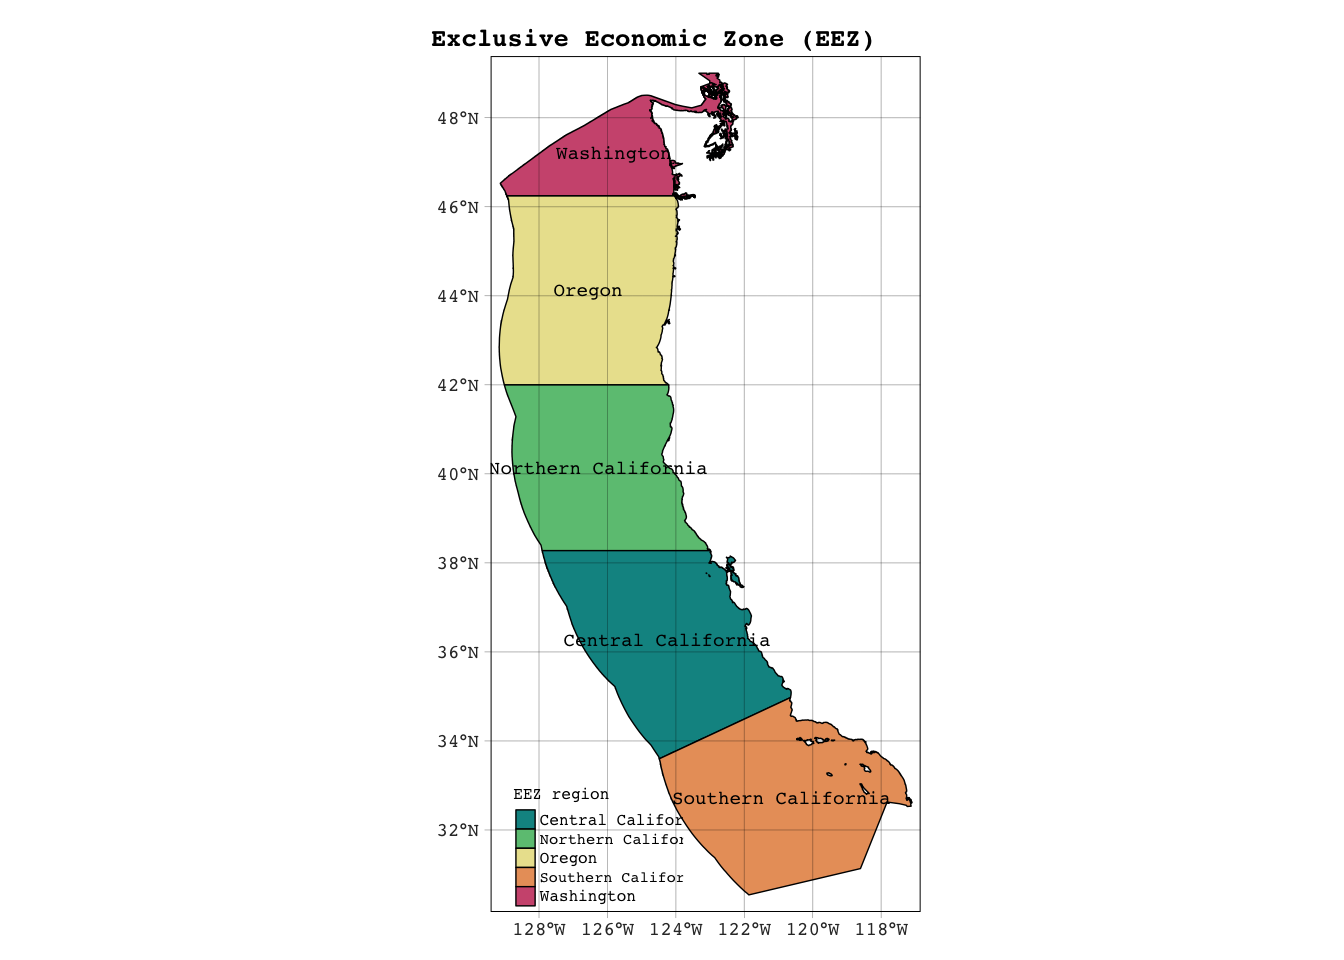
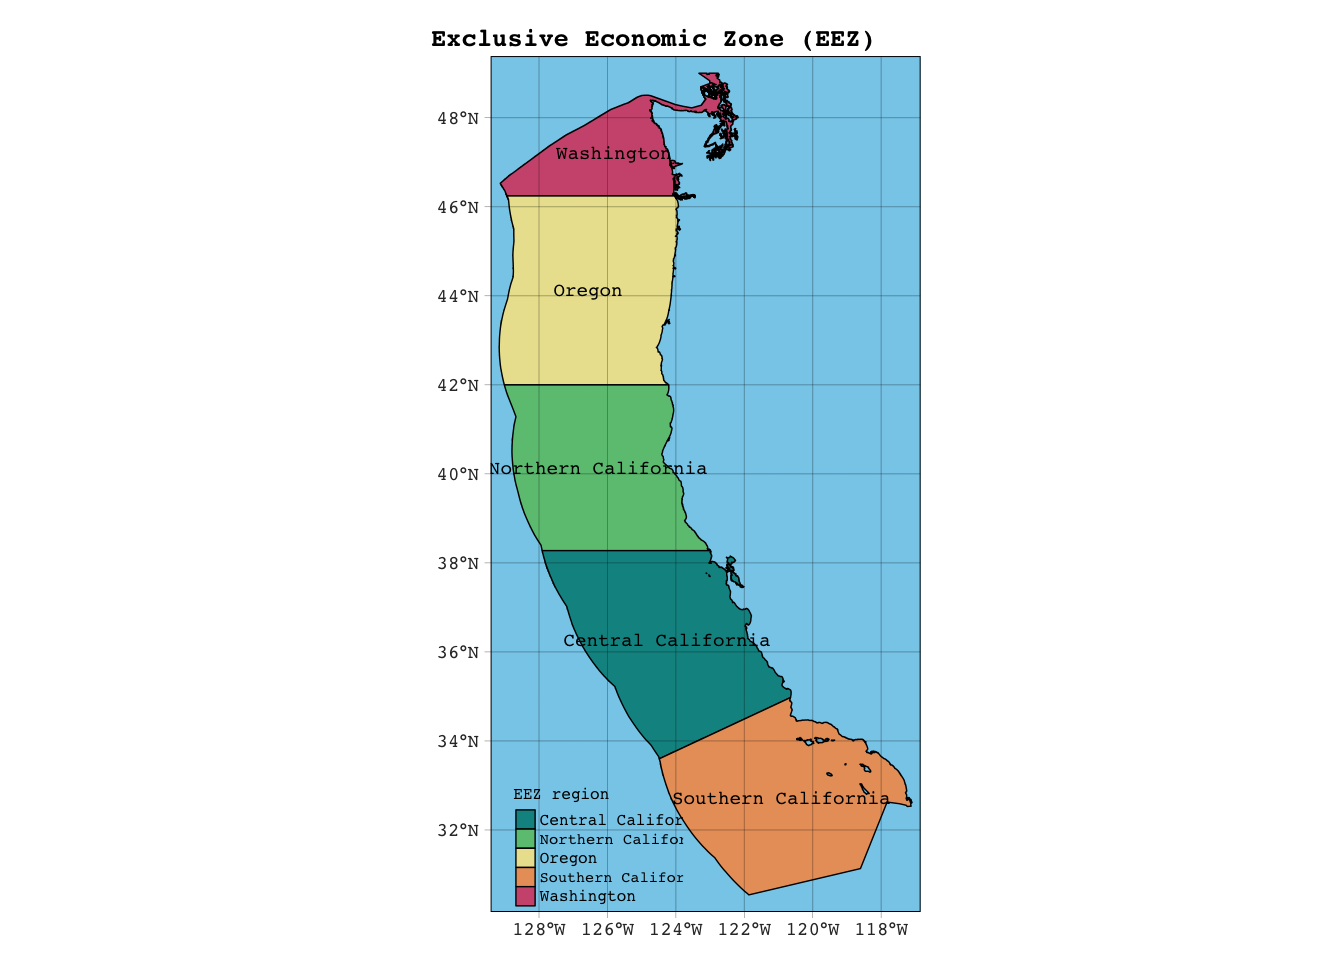
testing function

Changed region(s): [[0.3438, 0.0625, 0.6875, 0.9688]]

diff --git a/HW4.html b/HW4.html
@@ -76,8 +76,14 @@ pre > code.sourceCode > span > a:first-child::before { text-decoration: underlin
 <body>
 
 <div id="quarto-content" class="page-columns page-rows-contents page-layout-article">
-<div id="quarto-margin-sidebar" class="sidebar margin-sidebar zindex-bottom">
-  
+<div id="quarto-margin-sidebar" class="sidebar margin-sidebar">
+  <nav id="TOC" role="doc-toc" class="toc-active">
+    <h2 id="toc-title">Table of contents</h2>
+   
+  <ul>
+  <li><a href="#function" id="toc-function" class="nav-link active" data-scroll-target="#function">Function</a></li>
+  </ul>
+</nav>
 </div>
 <main class="content" id="quarto-document-content">
 
@@ -386,12 +392,13 @@ pre > code.sourceCode > span > a:first-child::before { text-decoration: underlin
 <span id="cb22-14"><a href="#cb22-14" aria-hidden="true" tabindex="-1"></a>            <span class="at">main.title.fontface =</span> <span class="st">"bold"</span>,</span>
 <span id="cb22-15"><a href="#cb22-15" aria-hidden="true" tabindex="-1"></a>            <span class="at">legend.text.size =</span> <span class="fl">0.5</span>,</span>
 <span id="cb22-16"><a href="#cb22-16" aria-hidden="true" tabindex="-1"></a>            <span class="at">legend.title.size =</span> <span class="fl">0.6</span>,</span>
-<span id="cb22-17"><a href="#cb22-17" aria-hidden="true" tabindex="-1"></a>            <span class="at">legend.position =</span> <span class="fu">c</span>(<span class="st">"left"</span>,<span class="st">"BOTTOM"</span>)) <span class="sc">+</span></span>
-<span id="cb22-18"><a href="#cb22-18" aria-hidden="true" tabindex="-1"></a>  <span class="fu">tm_graticules</span>(<span class="at">col =</span> <span class="st">"black"</span>,</span>
-<span id="cb22-19"><a href="#cb22-19" aria-hidden="true" tabindex="-1"></a>                <span class="at">lwd =</span> <span class="fl">0.3</span>,</span>
-<span id="cb22-20"><a href="#cb22-20" aria-hidden="true" tabindex="-1"></a>                <span class="at">alpha =</span> <span class="fl">0.5</span>) </span>
-<span id="cb22-21"><a href="#cb22-21" aria-hidden="true" tabindex="-1"></a>  </span>
-<span id="cb22-22"><a href="#cb22-22" aria-hidden="true" tabindex="-1"></a>eez_map</span></code><button title="Copy to Clipboard" class="code-copy-button"><i class="bi"></i></button></pre></div>
+<span id="cb22-17"><a href="#cb22-17" aria-hidden="true" tabindex="-1"></a>            <span class="at">legend.position =</span> <span class="fu">c</span>(<span class="st">"left"</span>,<span class="st">"BOTTOM"</span>),</span>
+<span id="cb22-18"><a href="#cb22-18" aria-hidden="true" tabindex="-1"></a>            <span class="at">bg.color =</span> <span class="st">"skyblue"</span>) <span class="sc">+</span></span>
+<span id="cb22-19"><a href="#cb22-19" aria-hidden="true" tabindex="-1"></a>  <span class="fu">tm_graticules</span>(<span class="at">col =</span> <span class="st">"black"</span>,</span>
+<span id="cb22-20"><a href="#cb22-20" aria-hidden="true" tabindex="-1"></a>                <span class="at">lwd =</span> <span class="fl">0.3</span>,</span>
+<span id="cb22-21"><a href="#cb22-21" aria-hidden="true" tabindex="-1"></a>                <span class="at">alpha =</span> <span class="fl">0.5</span>) </span>
+<span id="cb22-22"><a href="#cb22-22" aria-hidden="true" tabindex="-1"></a>  </span>
+<span id="cb22-23"><a href="#cb22-23" aria-hidden="true" tabindex="-1"></a>eez_map</span></code><button title="Copy to Clipboard" class="code-copy-button"><i class="bi"></i></button></pre></div>
 <div class="cell-output-display">
 <div>
 <figure class="figure">
@@ -448,11 +455,11 @@ pre > code.sourceCode > span > a:first-child::before { text-decoration: underlin
 <span id="cb27-24"><a href="#cb27-24" aria-hidden="true" tabindex="-1"></a>  <span class="fu">tm_shape</span>(suitable_eez) <span class="sc">+</span></span>
 <span id="cb27-25"><a href="#cb27-25" aria-hidden="true" tabindex="-1"></a>  <span class="fu">tm_raster</span>(<span class="at">palette =</span> <span class="fu">rev</span>(<span class="fu">hcl.colors</span>(<span class="dv">5</span>, <span class="st">"BuGn"</span>)),</span>
 <span id="cb27-26"><a href="#cb27-26" aria-hidden="true" tabindex="-1"></a>            <span class="at">style =</span> <span class="st">"cat"</span>,</span>
-<span id="cb27-27"><a href="#cb27-27" aria-hidden="true" tabindex="-1"></a>            <span class="at">title =</span> <span class="st">"Total suitable area (km) / EEZ region"</span>,</span>
+<span id="cb27-27"><a href="#cb27-27" aria-hidden="true" tabindex="-1"></a>            <span class="at">title =</span> <span class="fu">expression</span>(<span class="st">"Zone priority / total suitable area (km^2*)"</span>),</span>
 <span id="cb27-28"><a href="#cb27-28" aria-hidden="true" tabindex="-1"></a>            <span class="at">labels =</span> <span class="fu">c</span>(<span class="st">"Lowest, 438"</span>,</span>
-<span id="cb27-29"><a href="#cb27-29" aria-hidden="true" tabindex="-1"></a>                       <span class="st">"Low, 1,533"</span>,</span>
-<span id="cb27-30"><a href="#cb27-30" aria-hidden="true" tabindex="-1"></a>                       <span class="st">"Mid, 3,225"</span>,</span>
-<span id="cb27-31"><a href="#cb27-31" aria-hidden="true" tabindex="-1"></a>                       <span class="st">"High, 4,097"</span>,</span>
+<span id="cb27-29"><a href="#cb27-29" aria-hidden="true" tabindex="-1"></a>                       <span class="st">"1,533"</span>,</span>
+<span id="cb27-30"><a href="#cb27-30" aria-hidden="true" tabindex="-1"></a>                       <span class="st">"3,225"</span>,</span>
+<span id="cb27-31"><a href="#cb27-31" aria-hidden="true" tabindex="-1"></a>                       <span class="st">"4,097"</span>,</span>
 <span id="cb27-32"><a href="#cb27-32" aria-hidden="true" tabindex="-1"></a>                       <span class="st">"Highest, 4,923"</span>),</span>
 <span id="cb27-33"><a href="#cb27-33" aria-hidden="true" tabindex="-1"></a>            <span class="at">legend.is.portrait =</span> <span class="cn">FALSE</span>) <span class="sc">+</span></span>
 <span id="cb27-34"><a href="#cb27-34" aria-hidden="true" tabindex="-1"></a>  <span class="fu">tm_shape</span>(eez) <span class="sc">+</span> </span>
@@ -478,19 +485,80 @@ pre > code.sourceCode > span > a:first-child::before { text-decoration: underlin
 <span id="cb27-54"><a href="#cb27-54" aria-hidden="true" tabindex="-1"></a>                <span class="at">lwd =</span> <span class="fl">0.3</span>,</span>
 <span id="cb27-55"><a href="#cb27-55" aria-hidden="true" tabindex="-1"></a>                <span class="at">alpha =</span> <span class="fl">0.5</span>) </span>
 <span id="cb27-56"><a href="#cb27-56" aria-hidden="true" tabindex="-1"></a></span>
-<span id="cb27-57"><a href="#cb27-57" aria-hidden="true" tabindex="-1"></a>species_map <span class="ot">&lt;-</span> <span class="fu">tmap_save</span>(species_map, <span class="st">"species_map.html"</span>, <span class="at">width =</span> <span class="dv">1200</span>, <span class="at">height =</span> <span class="dv">800</span>)</span></code><button title="Copy to Clipboard" class="code-copy-button"><i class="bi"></i></button></pre></div>
+<span id="cb27-57"><a href="#cb27-57" aria-hidden="true" tabindex="-1"></a>species_map </span></code><button title="Copy to Clipboard" class="code-copy-button"><i class="bi"></i></button></pre></div>
+<div class="cell-output-display">
+<div>
+<figure class="figure">
+<p><img src="HW4_files/figure-html/unnamed-chunk-15-1.png" class="img-fluid figure-img" width="192"></p>
+</figure>
 </div>
+</div>
+</div>
+</section>
+<section id="function" class="level2">
+<h2 class="anchored" data-anchor-id="function">Function</h2>
 <div class="cell">
-<div class="sourceCode cell-code" id="cb28"><pre class="sourceCode r code-with-copy"><code class="sourceCode r"><span id="cb28-1"><a href="#cb28-1" aria-hidden="true" tabindex="-1"></a><span class="co"># suitable_locations set to NAs</span></span>
-<span id="cb28-2"><a href="#cb28-2" aria-hidden="true" tabindex="-1"></a><span class="co"># then mask suitable cells, using eez as vector </span></span>
-<span id="cb28-3"><a href="#cb28-3" aria-hidden="true" tabindex="-1"></a><span class="co"># cell area of suitable locations </span></span>
-<span id="cb28-4"><a href="#cb28-4" aria-hidden="true" tabindex="-1"></a><span class="co"># eez_rast &lt;- rasterize(eez), can use suitable locations rast as template</span></span>
-<span id="cb28-5"><a href="#cb28-5" aria-hidden="true" tabindex="-1"></a><span class="co"># need template raster with matching res, crs </span></span>
-<span id="cb28-6"><a href="#cb28-6" aria-hidden="true" tabindex="-1"></a><span class="co"># zonal function terra</span></span>
-<span id="cb28-7"><a href="#cb28-7" aria-hidden="true" tabindex="-1"></a><span class="co">#  </span></span>
-<span id="cb28-8"><a href="#cb28-8" aria-hidden="true" tabindex="-1"></a><span class="co"># field argument rasterize()</span></span>
-<span id="cb28-9"><a href="#cb28-9" aria-hidden="true" tabindex="-1"></a><span class="co"># </span></span>
-<span id="cb28-10"><a href="#cb28-10" aria-hidden="true" tabindex="-1"></a><span class="co"># any species, megaladon </span></span></code><button title="Copy to Clipboard" class="code-copy-button"><i class="bi"></i></button></pre></div>
+<div class="sourceCode cell-code" id="cb28"><pre class="sourceCode r code-with-copy"><code class="sourceCode r"><span id="cb28-1"><a href="#cb28-1" aria-hidden="true" tabindex="-1"></a>generate_species_map <span class="ot">&lt;-</span> <span class="cf">function</span>(min_sst, max_sst, min_depth, max_depth, species_name) {</span>
+<span id="cb28-2"><a href="#cb28-2" aria-hidden="true" tabindex="-1"></a>  </span>
+<span id="cb28-3"><a href="#cb28-3" aria-hidden="true" tabindex="-1"></a>  <span class="co"># Reclassify mean SST</span></span>
+<span id="cb28-4"><a href="#cb28-4" aria-hidden="true" tabindex="-1"></a>  rcl_sst <span class="ot">&lt;-</span> <span class="fu">matrix</span>(<span class="fu">c</span>(<span class="sc">-</span><span class="cn">Inf</span>, min_sst, <span class="cn">NA</span>,</span>
+<span id="cb28-5"><a href="#cb28-5" aria-hidden="true" tabindex="-1"></a>                      min_sst, max_sst, <span class="dv">1</span>,</span>
+<span id="cb28-6"><a href="#cb28-6" aria-hidden="true" tabindex="-1"></a>                      max_sst, <span class="cn">Inf</span>, <span class="cn">NA</span>),</span>
+<span id="cb28-7"><a href="#cb28-7" aria-hidden="true" tabindex="-1"></a>                    <span class="at">ncol =</span> <span class="dv">3</span>, <span class="at">byrow =</span> <span class="cn">TRUE</span>)</span>
+<span id="cb28-8"><a href="#cb28-8" aria-hidden="true" tabindex="-1"></a>  </span>
+<span id="cb28-9"><a href="#cb28-9" aria-hidden="true" tabindex="-1"></a>  reclassified_sst <span class="ot">&lt;-</span> <span class="fu">classify</span>(<span class="fu">rast</span>(mean_sst), <span class="at">rcl =</span> rcl_sst)</span>
+<span id="cb28-10"><a href="#cb28-10" aria-hidden="true" tabindex="-1"></a>  </span>
+<span id="cb28-11"><a href="#cb28-11" aria-hidden="true" tabindex="-1"></a>  <span class="co"># Reclassify depth</span></span>
+<span id="cb28-12"><a href="#cb28-12" aria-hidden="true" tabindex="-1"></a>  rcl_depth <span class="ot">&lt;-</span> <span class="fu">matrix</span>(<span class="fu">c</span>(<span class="sc">-</span><span class="cn">Inf</span>, min_depth, <span class="cn">NA</span>,</span>
+<span id="cb28-13"><a href="#cb28-13" aria-hidden="true" tabindex="-1"></a>                        min_depth, max_depth, <span class="dv">1</span>,</span>
+<span id="cb28-14"><a href="#cb28-14" aria-hidden="true" tabindex="-1"></a>                        max_depth, <span class="cn">Inf</span>, <span class="cn">NA</span>),</span>
+<span id="cb28-15"><a href="#cb28-15" aria-hidden="true" tabindex="-1"></a>                      <span class="at">ncol =</span> <span class="dv">3</span>, <span class="at">byrow =</span> <span class="cn">TRUE</span>)</span>
+<span id="cb28-16"><a href="#cb28-16" aria-hidden="true" tabindex="-1"></a>  </span>
+<span id="cb28-17"><a href="#cb28-17" aria-hidden="true" tabindex="-1"></a>  reclassified_depth <span class="ot">&lt;-</span> <span class="fu">classify</span>(<span class="fu">rast</span>(depth_resampled), <span class="at">rcl =</span> rcl_depth)</span>
+<span id="cb28-18"><a href="#cb28-18" aria-hidden="true" tabindex="-1"></a>  </span>
+<span id="cb28-19"><a href="#cb28-19" aria-hidden="true" tabindex="-1"></a>  <span class="co"># Suitable locations (SST * Depth)</span></span>
+<span id="cb28-20"><a href="#cb28-20" aria-hidden="true" tabindex="-1"></a>  suitable_locations <span class="ot">&lt;-</span> reclassified_sst <span class="sc">*</span> reclassified_depth</span>
+<span id="cb28-21"><a href="#cb28-21" aria-hidden="true" tabindex="-1"></a>  </span>
+<span id="cb28-22"><a href="#cb28-22" aria-hidden="true" tabindex="-1"></a>  <span class="co"># Mask suitable locations to EEZ</span></span>
+<span id="cb28-23"><a href="#cb28-23" aria-hidden="true" tabindex="-1"></a>  mask_locations <span class="ot">&lt;-</span> <span class="fu">mask</span>(suitable_locations, eez)</span>
+<span id="cb28-24"><a href="#cb28-24" aria-hidden="true" tabindex="-1"></a>  </span>
+<span id="cb28-25"><a href="#cb28-25" aria-hidden="true" tabindex="-1"></a>  <span class="co"># Calculate cell area</span></span>
+<span id="cb28-26"><a href="#cb28-26" aria-hidden="true" tabindex="-1"></a>  cell_area <span class="ot">&lt;-</span> <span class="fu">cellSize</span>(<span class="at">x =</span> mask_locations, <span class="at">mask =</span> <span class="cn">TRUE</span>, <span class="at">unit =</span> <span class="st">"km"</span>)</span>
+<span id="cb28-27"><a href="#cb28-27" aria-hidden="true" tabindex="-1"></a>  </span>
+<span id="cb28-28"><a href="#cb28-28" aria-hidden="true" tabindex="-1"></a>  <span class="co"># Rasterize EEZ vector</span></span>
+<span id="cb28-29"><a href="#cb28-29" aria-hidden="true" tabindex="-1"></a>  eez_raster <span class="ot">&lt;-</span> <span class="fu">rasterize</span>(eez, cell_area, <span class="at">field =</span> <span class="st">"rgn_id"</span>)</span>
+<span id="cb28-30"><a href="#cb28-30" aria-hidden="true" tabindex="-1"></a>  </span>
+<span id="cb28-31"><a href="#cb28-31" aria-hidden="true" tabindex="-1"></a>  <span class="co"># Zonal statistics for suitable area within each EEZ</span></span>
+<span id="cb28-32"><a href="#cb28-32" aria-hidden="true" tabindex="-1"></a>  suitable_eez <span class="ot">&lt;-</span> <span class="fu">zonal</span>(<span class="at">x =</span> cell_area, <span class="at">z =</span> eez_raster, <span class="at">fun =</span> <span class="st">"sum"</span>, <span class="at">as.raster =</span> <span class="cn">TRUE</span>, <span class="at">na.rm =</span> <span class="cn">TRUE</span>)</span>
+<span id="cb28-33"><a href="#cb28-33" aria-hidden="true" tabindex="-1"></a>  </span>
+<span id="cb28-34"><a href="#cb28-34" aria-hidden="true" tabindex="-1"></a>  <span class="co"># Generate map</span></span>
+<span id="cb28-35"><a href="#cb28-35" aria-hidden="true" tabindex="-1"></a>  species_map <span class="ot">&lt;-</span> <span class="fu">tm_shape</span>(depth_resampled) <span class="sc">+</span></span>
+<span id="cb28-36"><a href="#cb28-36" aria-hidden="true" tabindex="-1"></a>    <span class="fu">tm_raster</span>(<span class="at">palette =</span> <span class="fu">hcl.colors</span>(<span class="dv">8</span>, <span class="st">"Berlin"</span>), <span class="at">style =</span> <span class="st">"cont"</span>, <span class="at">legend.show =</span> <span class="cn">FALSE</span>) <span class="sc">+</span></span>
+<span id="cb28-37"><a href="#cb28-37" aria-hidden="true" tabindex="-1"></a>    <span class="fu">tm_shape</span>(suitable_eez) <span class="sc">+</span></span>
+<span id="cb28-38"><a href="#cb28-38" aria-hidden="true" tabindex="-1"></a>    <span class="fu">tm_raster</span>(<span class="at">palette =</span> <span class="fu">rev</span>(<span class="fu">hcl.colors</span>(<span class="dv">5</span>, <span class="st">"BuGn"</span>)),</span>
+<span id="cb28-39"><a href="#cb28-39" aria-hidden="true" tabindex="-1"></a>              <span class="at">style =</span> <span class="st">"cat"</span>,</span>
+<span id="cb28-40"><a href="#cb28-40" aria-hidden="true" tabindex="-1"></a>              <span class="at">title =</span> <span class="fu">expression</span>(<span class="st">"Zone priority / total suitable area (km"</span><span class="sc">^</span><span class="dv">2</span><span class="sc">*</span><span class="st">")"</span>),  <span class="co"># Subscript for km²</span></span>
+<span id="cb28-41"><a href="#cb28-41" aria-hidden="true" tabindex="-1"></a>              <span class="at">legend.is.portrait =</span> <span class="cn">FALSE</span>) <span class="sc">+</span></span>
+<span id="cb28-42"><a href="#cb28-42" aria-hidden="true" tabindex="-1"></a>    <span class="fu">tm_shape</span>(eez) <span class="sc">+</span> </span>
+<span id="cb28-43"><a href="#cb28-43" aria-hidden="true" tabindex="-1"></a>    <span class="fu">tm_text</span>(<span class="at">text =</span> <span class="st">"rgn"</span>, <span class="at">size =</span> <span class="fl">0.55</span>, <span class="at">col =</span> <span class="st">"black"</span>) <span class="sc">+</span></span>
+<span id="cb28-44"><a href="#cb28-44" aria-hidden="true" tabindex="-1"></a>    <span class="fu">tm_layout</span>(<span class="at">fontfamily =</span> <span class="st">"courier"</span>,</span>
+<span id="cb28-45"><a href="#cb28-45" aria-hidden="true" tabindex="-1"></a>              <span class="at">fontface =</span> <span class="st">"bold"</span>,</span>
+<span id="cb28-46"><a href="#cb28-46" aria-hidden="true" tabindex="-1"></a>              <span class="at">main.title =</span> <span class="fu">paste</span>(<span class="st">"Total Suitable Area for"</span>, species_name, <span class="st">"Growth Across EEZs"</span>),</span>
+<span id="cb28-47"><a href="#cb28-47" aria-hidden="true" tabindex="-1"></a>              <span class="at">main.title.size =</span> <span class="fl">0.8</span>,</span>
+<span id="cb28-48"><a href="#cb28-48" aria-hidden="true" tabindex="-1"></a>              <span class="at">main.title.fontface =</span> <span class="st">"bold"</span>,</span>
+<span id="cb28-49"><a href="#cb28-49" aria-hidden="true" tabindex="-1"></a>              <span class="at">inner.margins =</span> <span class="fu">c</span>(<span class="fl">0.001</span>, <span class="fl">0.001</span>, <span class="fl">0.001</span>, <span class="fl">0.001</span>),</span>
+<span id="cb28-50"><a href="#cb28-50" aria-hidden="true" tabindex="-1"></a>              <span class="at">legend.text.size =</span> <span class="fl">0.6</span>,</span>
+<span id="cb28-51"><a href="#cb28-51" aria-hidden="true" tabindex="-1"></a>              <span class="at">legend.title.size =</span> <span class="fl">0.6</span>,</span>
+<span id="cb28-52"><a href="#cb28-52" aria-hidden="true" tabindex="-1"></a>              <span class="at">legend.title.color =</span> <span class="st">"Black"</span>,</span>
+<span id="cb28-53"><a href="#cb28-53" aria-hidden="true" tabindex="-1"></a>              <span class="at">legend.text.color =</span> <span class="st">"Black"</span>,</span>
+<span id="cb28-54"><a href="#cb28-54" aria-hidden="true" tabindex="-1"></a>              <span class="at">legend.outside =</span> <span class="cn">TRUE</span>,</span>
+<span id="cb28-55"><a href="#cb28-55" aria-hidden="true" tabindex="-1"></a>              <span class="at">legend.outside.position =</span> <span class="st">"bottom"</span>,</span>
+<span id="cb28-56"><a href="#cb28-56" aria-hidden="true" tabindex="-1"></a>              <span class="at">legend.stack =</span> <span class="st">"horizontal"</span>) <span class="sc">+</span></span>
+<span id="cb28-57"><a href="#cb28-57" aria-hidden="true" tabindex="-1"></a>    <span class="fu">tm_graticules</span>(<span class="at">col =</span> <span class="st">"white"</span>, <span class="at">lwd =</span> <span class="fl">0.3</span>, <span class="at">alpha =</span> <span class="fl">0.5</span>)</span>
+<span id="cb28-58"><a href="#cb28-58" aria-hidden="true" tabindex="-1"></a>  </span>
+<span id="cb28-59"><a href="#cb28-59" aria-hidden="true" tabindex="-1"></a>  <span class="co"># Return map</span></span>
+<span id="cb28-60"><a href="#cb28-60" aria-hidden="true" tabindex="-1"></a>  <span class="fu">return</span>(species_map)</span>
+<span id="cb28-61"><a href="#cb28-61" aria-hidden="true" tabindex="-1"></a>}</span></code><button title="Copy to Clipboard" class="code-copy-button"><i class="bi"></i></button></pre></div>
 </div>
 </section>
 
